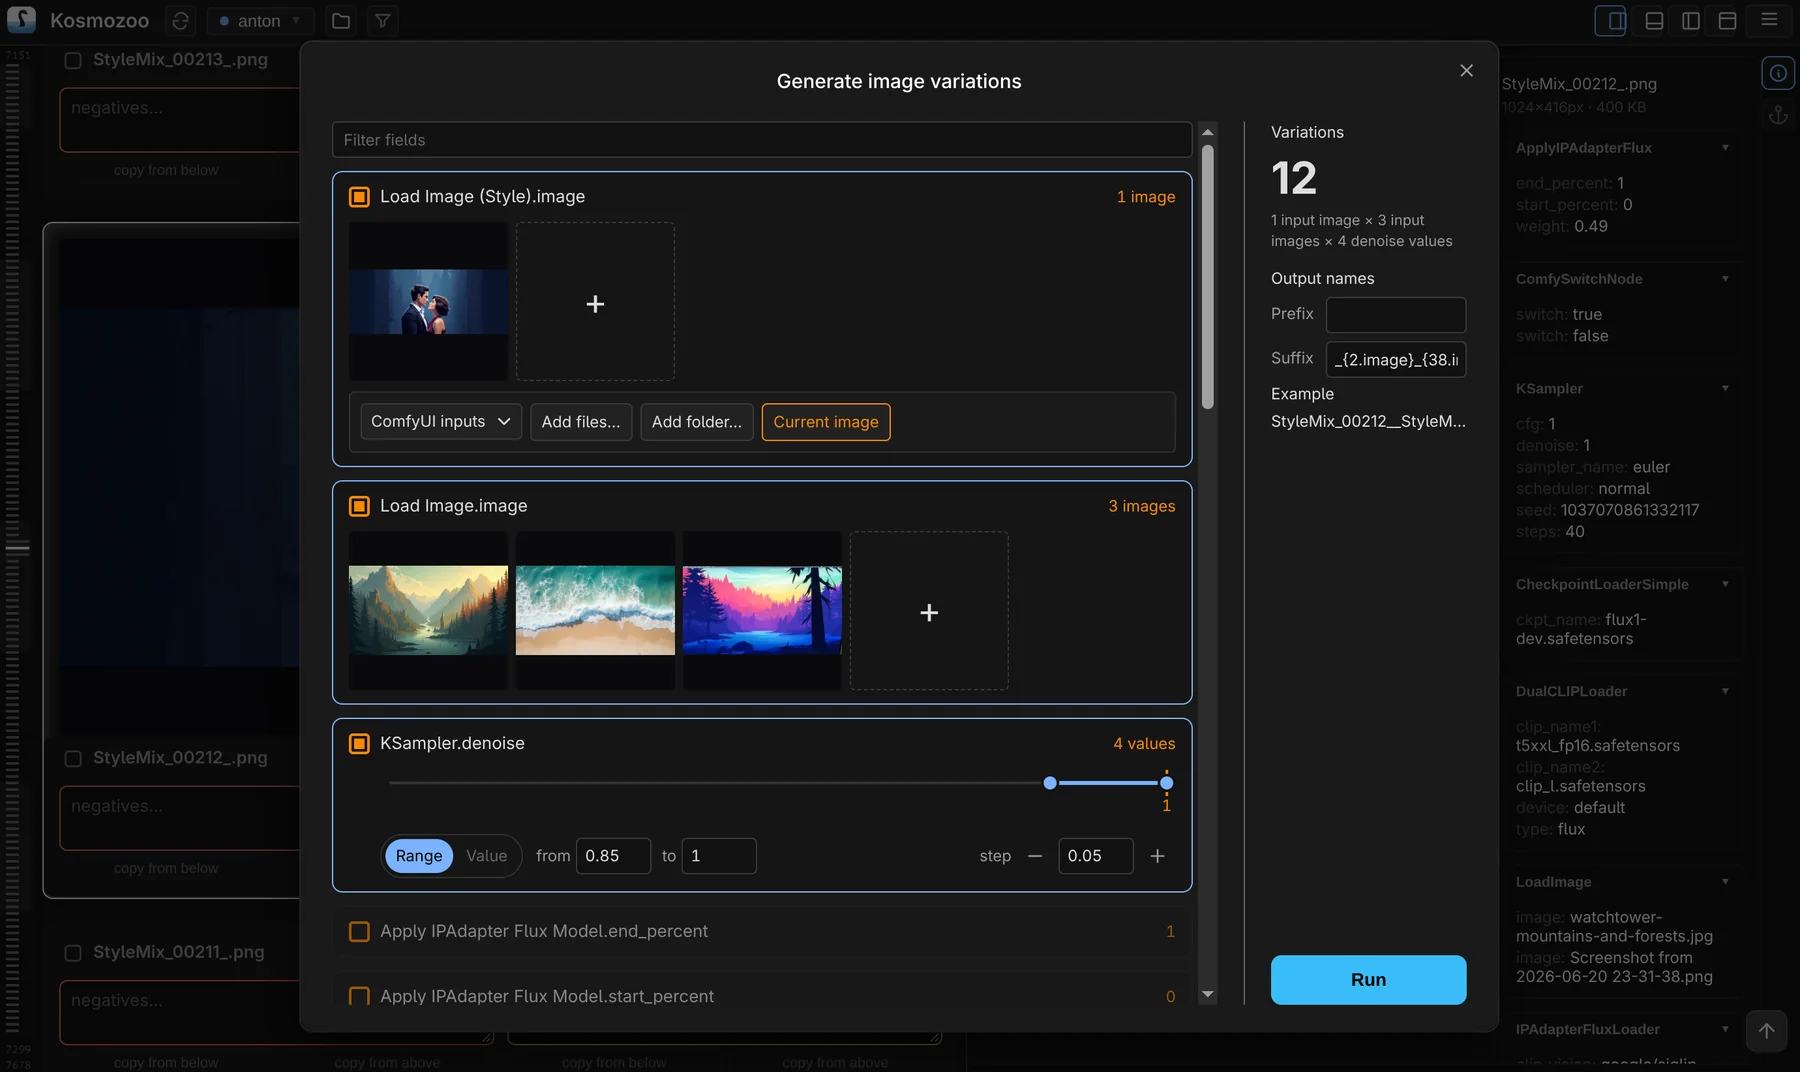
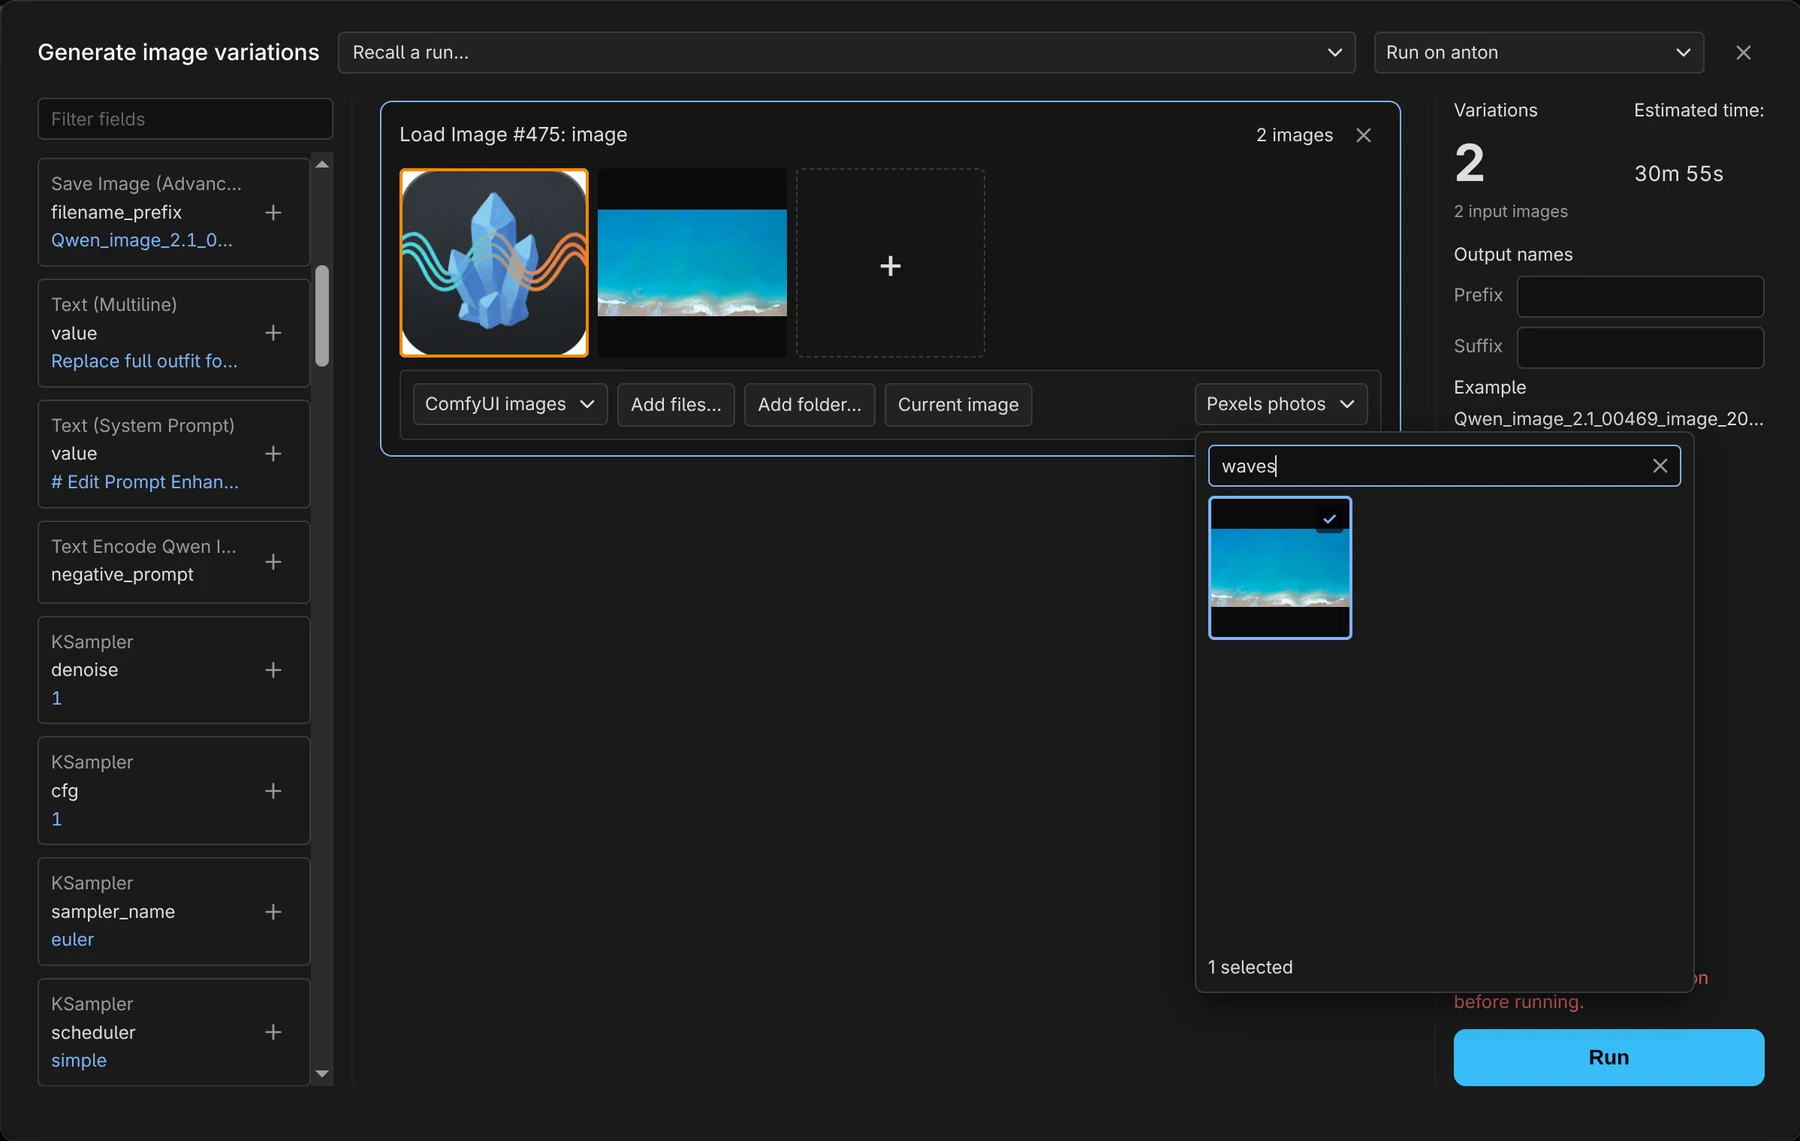
docs: show Run on and Pexels photos in the Variations screenshot
The Variations screenshot now shows the current dialog: the Run on
selector, two input images and the Pexels photo picker.

diff --git a/README.md b/README.md
@@ -37,7 +37,7 @@ Kosmozoo runs as a Linux desktop app or a self-hosted browser UI.
 - Run on any of your ComfyUI machines; anything the target lacks is flagged before a job is sent.
 - Every run is saved and can be recalled.
 
-![Variations dialog with a style reference, three input images, a denoise range, 12 combinations and output-naming controls](docs/screenshots/06-variations-dialog.webp)
+![Variations dialog set to run on another ComfyUI, with two input images, the Pexels photo picker searching for waves, and the variation count and estimated time](docs/screenshots/06-variations-dialog.webp)
 
 ### Open engine
 
